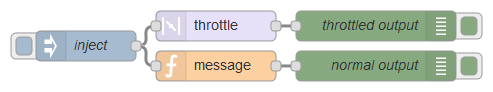
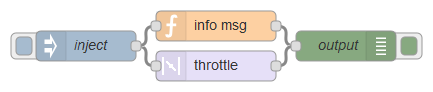
updated examples

diff --git a/readme.md b/readme.md
@@ -68,7 +68,7 @@ Simple examples showing how to use the throttle and it's output.
 ![example1.png](./doc/example1.png)
 
 ```JSON
-[{"id":"76ff891d.c41038","type":"debug","z":"8a25646f.9d541","name":"throttled output","active":true,"console":"false","complete":"payload","x":660,"y":120,"wires":[]},{"id":"81be4802.e74478","type":"function","z":"8a25646f.9d541","name":"message","func":"msg.payload = \"injected\";\nreturn msg;","outputs":1,"noerr":0,"x":500,"y":160,"wires":[["789ee5ac.32e214"]]},{"id":"789ee5ac.32e214","type":"debug","z":"8a25646f.9d541","name":"normal output","active":true,"console":"false","complete":"payload","x":660,"y":160,"wires":[]},{"id":"99fbadf5.9b42e8","type":"throttle","z":"8a25646f.9d541","name":"","throttleType":"time","timeLimit":"3","timeLimitType":"seconds","countLimit":"3","locked":false,"x":500,"y":120,"wires":[["76ff891d.c41038"]]},{"id":"681f30ee.8f3598","type":"inject","z":"8a25646f.9d541","name":"inject","topic":"","payload":"!!! PASSED THROUGH !!!","payloadType":"str","repeat":"","crontab":"","once":false,"x":370,"y":140,"wires":[["99fbadf5.9b42e8","81be4802.e74478"]]}]
+[{"id":"81be4802.e74478","type":"function","z":"8a25646f.9d541","name":"info msg","func":"msg.payload = \"injected\";\nreturn msg;","outputs":1,"noerr":0,"x":620,"y":120,"wires":[["789ee5ac.32e214"]]},{"id":"789ee5ac.32e214","type":"debug","z":"8a25646f.9d541","name":"output","active":true,"console":"false","complete":"payload","x":750,"y":140,"wires":[]},{"id":"99fbadf5.9b42e8","type":"throttle","z":"8a25646f.9d541","name":"","throttleType":"time","timeLimit":"3","timeLimitType":"seconds","countLimit":"3","locked":false,"x":620,"y":160,"wires":[["789ee5ac.32e214"]]},{"id":"681f30ee.8f3598","type":"inject","z":"8a25646f.9d541","name":"inject","topic":"","payload":"!!! PASSED THROUGH !!!","payloadType":"str","repeat":"","crontab":"","once":false,"x":490,"y":140,"wires":[["99fbadf5.9b42e8","81be4802.e74478"]]}]
 ```
 
 
@@ -77,7 +77,7 @@ Simple examples showing how to use the throttle and it's output.
 ![example2.png](./doc/example2.png)
 
 ```JSON
-[{"id":"a3d7f710.99f97","type":"debug","z":"8a25646f.9d541","name":"throttled output","active":true,"console":"false","complete":"payload","x":660,"y":240,"wires":[]},{"id":"e2c6599a.0b5c98","type":"function","z":"8a25646f.9d541","name":"message","func":"msg.payload = \"injected\";\nreturn msg;","outputs":1,"noerr":0,"x":500,"y":280,"wires":[["b899b45b.46f4d8"]]},{"id":"b899b45b.46f4d8","type":"debug","z":"8a25646f.9d541","name":"normal output","active":true,"console":"false","complete":"payload","x":660,"y":280,"wires":[]},{"id":"8a2c177f.24e0c8","type":"throttle","z":"8a25646f.9d541","name":"","throttleType":"count","timeLimit":"10","timeLimitType":"seconds","countLimit":"3","locked":false,"x":500,"y":240,"wires":[["a3d7f710.99f97"]]},{"id":"836ebd21.ad25","type":"inject","z":"8a25646f.9d541","name":"inject","topic":"","payload":"!!! PASSED THROUGH !!!","payloadType":"str","repeat":"","crontab":"","once":false,"x":370,"y":260,"wires":[["8a2c177f.24e0c8","e2c6599a.0b5c98"]]}]
+[{"id":"a3d7f710.99f97","type":"debug","z":"8a25646f.9d541","name":"output","active":true,"console":"false","complete":"payload","x":750,"y":260,"wires":[]},{"id":"e2c6599a.0b5c98","type":"function","z":"8a25646f.9d541","name":"info msg","func":"msg.payload = \"injected\";\nreturn msg;","outputs":1,"noerr":0,"x":620,"y":240,"wires":[["a3d7f710.99f97"]]},{"id":"8a2c177f.24e0c8","type":"throttle","z":"8a25646f.9d541","name":"","throttleType":"count","timeLimit":"10","timeLimitType":"seconds","countLimit":"3","locked":false,"x":620,"y":280,"wires":[["a3d7f710.99f97"]]},{"id":"836ebd21.ad25","type":"inject","z":"8a25646f.9d541","name":"inject","topic":"","payload":"!!! PASSED THROUGH !!!","payloadType":"str","repeat":"","crontab":"","once":false,"x":490,"y":260,"wires":[["8a2c177f.24e0c8","e2c6599a.0b5c98"]]}]
 ```
 
 
@@ -86,7 +86,7 @@ Simple examples showing how to use the throttle and it's output.
 ![example3.png](./doc/example3.png)
 
 ```JSON
-[{"id":"3a962c63.03a2e4","type":"debug","z":"8a25646f.9d541","name":"throttled output","active":true,"console":"false","complete":"payload","x":800,"y":400,"wires":[]},{"id":"4e11480f.2fad28","type":"function","z":"8a25646f.9d541","name":"message","func":"msg.payload = \"injected\";\nreturn msg;","outputs":1,"noerr":0,"x":640,"y":440,"wires":[["65516c41.da3d44"]]},{"id":"65516c41.da3d44","type":"debug","z":"8a25646f.9d541","name":"normal output","active":true,"console":"false","complete":"payload","x":800,"y":440,"wires":[]},{"id":"50915215.704714","type":"throttle","z":"8a25646f.9d541","name":"","throttleType":"reset","timeLimit":"10","timeLimitType":"seconds","countLimit":"3","locked":false,"x":640,"y":400,"wires":[["3a962c63.03a2e4"]]},{"id":"4ba961e0.c018c8","type":"inject","z":"8a25646f.9d541","name":"inject","topic":"","payload":"!!! PASSED THROUGH !!!","payloadType":"str","repeat":"","crontab":"","once":false,"x":370,"y":420,"wires":[["50915215.704714","4e11480f.2fad28"]]},{"id":"f786e09d.1cdfa","type":"inject","z":"8a25646f.9d541","name":"reset","topic":"","payload":"reset","payloadType":"str","repeat":"","crontab":"","once":false,"x":370,"y":380,"wires":[["bbf770bd.df0768"]]},{"id":"bbf770bd.df0768","type":"function","z":"8a25646f.9d541","name":"message","func":"msg.reset = true;\nreturn msg;","outputs":1,"noerr":0,"x":500,"y":380,"wires":[["50915215.704714","c1d324bd.d2feb8"]]},{"id":"c1d324bd.d2feb8","type":"debug","z":"8a25646f.9d541","name":"reset output","active":true,"console":"false","complete":"payload","x":790,"y":360,"wires":[]}]
+[{"id":"4e11480f.2fad28","type":"function","z":"8a25646f.9d541","name":"info msg","func":"msg.payload = \"injected\";\nreturn msg;","outputs":1,"noerr":0,"x":740,"y":400,"wires":[["c1d324bd.d2feb8"]]},{"id":"50915215.704714","type":"throttle","z":"8a25646f.9d541","name":"","throttleType":"reset","timeLimit":"10","timeLimitType":"seconds","countLimit":"3","locked":false,"x":740,"y":440,"wires":[["c1d324bd.d2feb8"]]},{"id":"4ba961e0.c018c8","type":"inject","z":"8a25646f.9d541","name":"inject","topic":"","payload":"!!! PASSED THROUGH !!!","payloadType":"str","repeat":"","crontab":"","once":false,"x":430,"y":420,"wires":[["50915215.704714","4e11480f.2fad28"]]},{"id":"f786e09d.1cdfa","type":"inject","z":"8a25646f.9d541","name":"reset","topic":"","payload":"reset","payloadType":"str","repeat":"","crontab":"","once":false,"x":430,"y":480,"wires":[["bbf770bd.df0768"]]},{"id":"bbf770bd.df0768","type":"function","z":"8a25646f.9d541","name":"reset msg","func":"msg.reset = true;\nreturn msg;","outputs":1,"noerr":0,"x":560,"y":480,"wires":[["50915215.704714","c1d324bd.d2feb8"]]},{"id":"c1d324bd.d2feb8","type":"debug","z":"8a25646f.9d541","name":"output","active":true,"console":"false","complete":"payload","x":910,"y":480,"wires":[]}]
 ```
 
 
